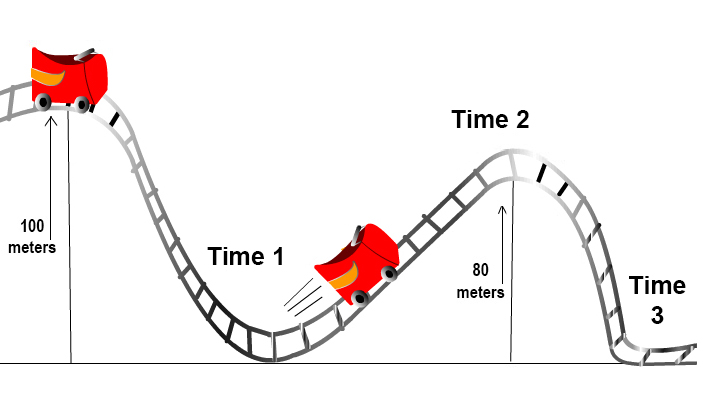
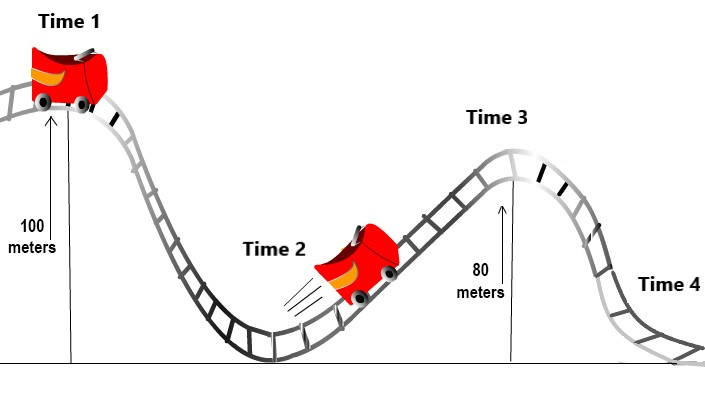
fixes to times in KE/PE image

diff --git a/energy-general/index.html b/energy-general/index.html
@@ -125,7 +125,6 @@
 
           </ul>
         </li>
-
        <br/>
         <li>
 
@@ -266,6 +265,10 @@
         </li>
       </ul>
 
+    </div>
+
+      <div id="page5" class="page">
+
       <p>
         The Conservation of Energy principle is shown in the animation below. The total amount of energy, which is represented by the sum of the heights of the red bars,
         is always the same. Energy just converts from kinetic to potential energy and from potential to kinetic energy.
@@ -276,7 +279,7 @@
 
     </div>
 
-    <div id="page5" class="page">
+    <div id="page6" class="page">
 
       <p>
         Check your understanding...
@@ -315,7 +318,7 @@
 
     </div>
 
-    <div id="page6" class="page">
+    <div id="page7" class="page">
 
       <ul class="brm-list">
         <li>
@@ -373,7 +376,7 @@
 
     </div>
 
-    <div id="page7" class="page">
+    <div id="page8" class="page">
 
       <p>
         <b>We just saw how the energy of electrons can be converted into light energy. But the reverse process can also
@@ -399,7 +402,7 @@
     </div>
 
 
-    <div id="page8" class="page">
+    <div id="page9" class="page">
       <ul class="brm-list">
         <li>
           <b>Conversion of kinetic energy of electrons into kinetic energy of molecules (ATP).</b> Another important
